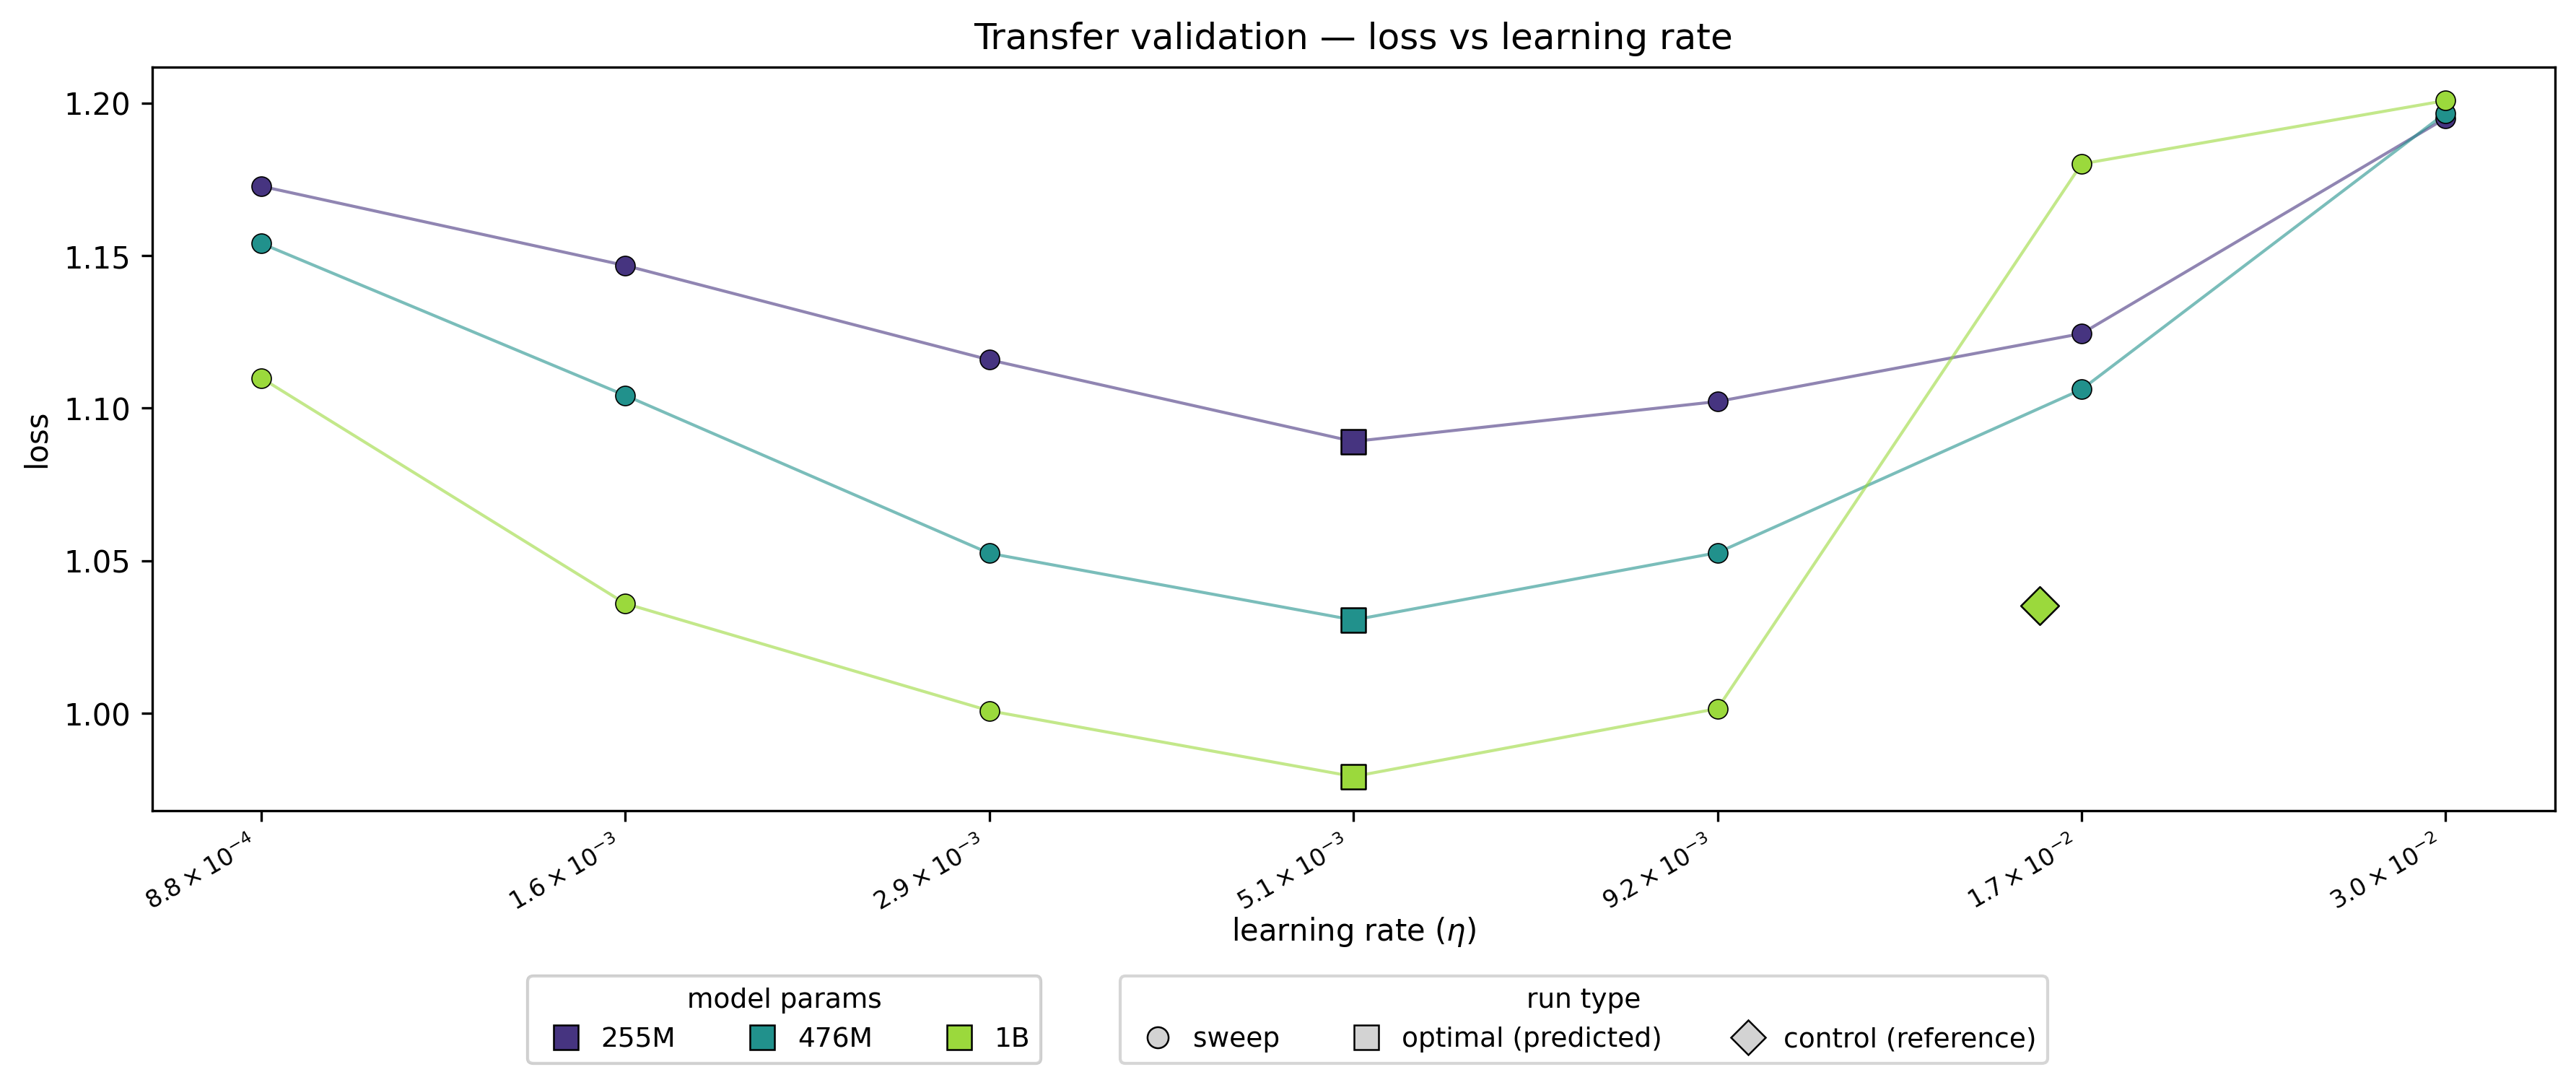
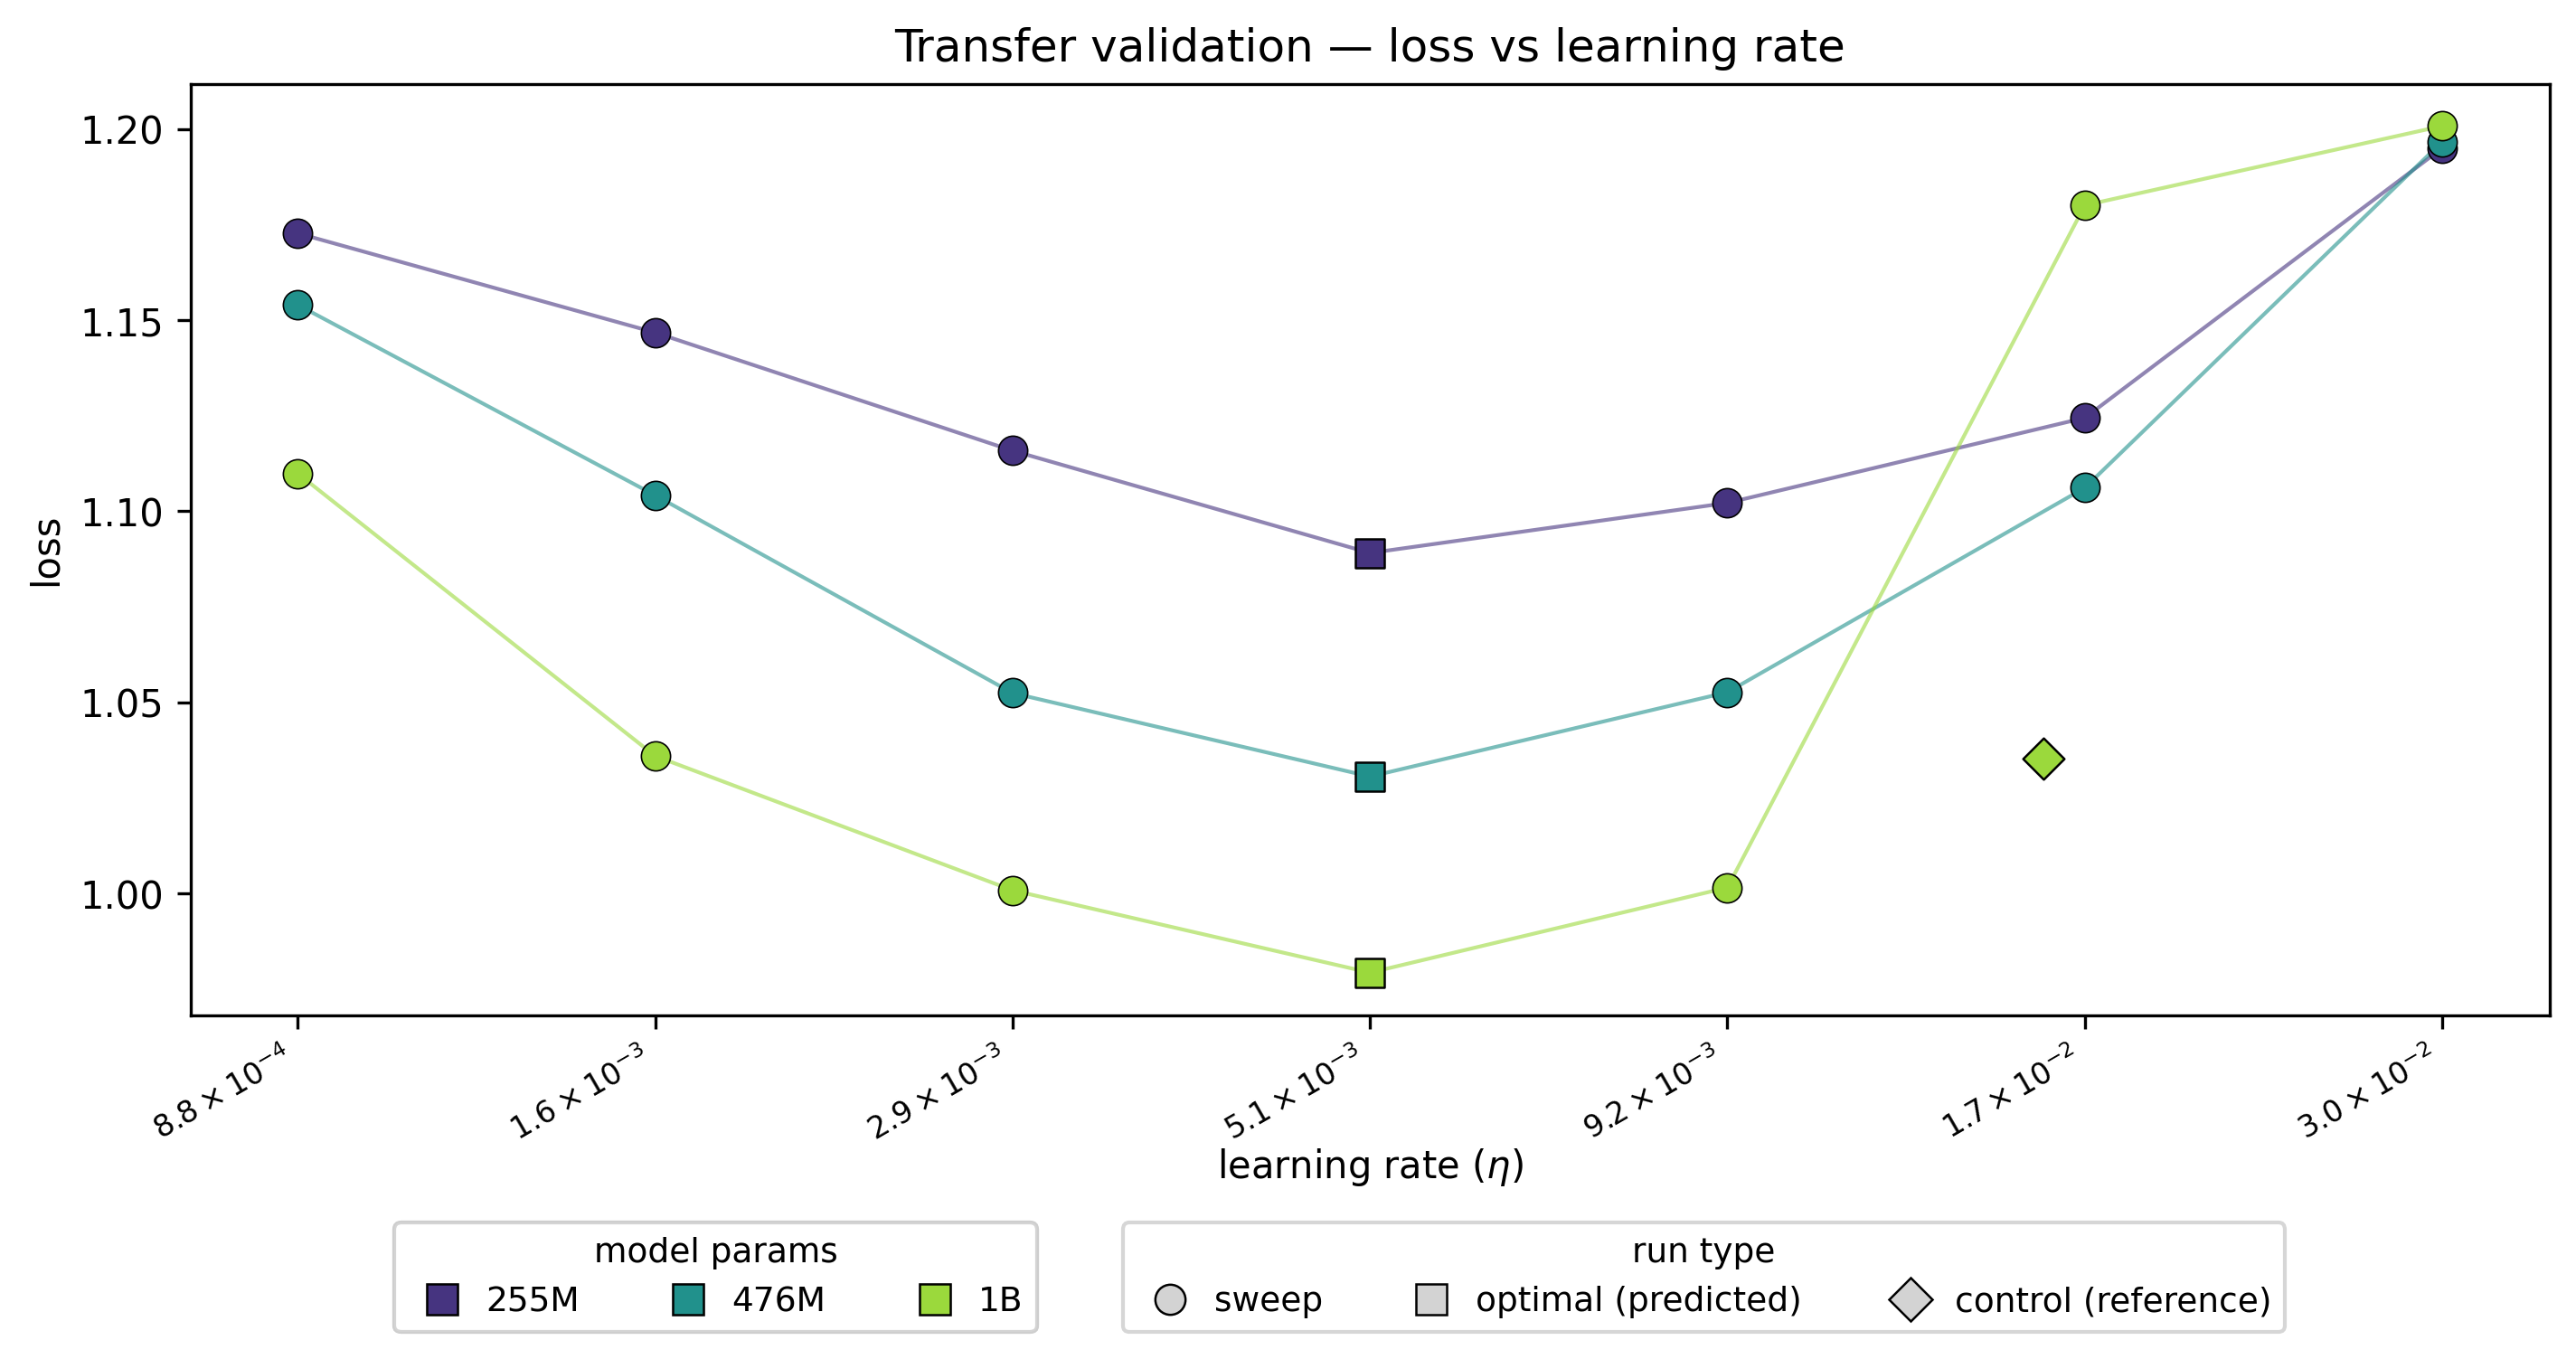
Polish figure layouts and add Kaplan fit report
Unify marker sizes across roles in figures 1/2, narrow figure 1 to
0.8x the multi-panel canvas width, drop y-axis grid lines from figures
1/2/4/5, and write Kaplan fit details (params, std errs, residuals,
bounds) to figures/figure3_loss_scaling.txt instead of stdout. Adds
strict convergence + bound-margin checks to the fit.

diff --git a/src/figures.py b/src/figures.py
@@ -138,13 +138,17 @@ def _plot_axis(
             line_xs = [grid_lookup[v] for v in line_pts[axis_field]]
             ax.plot(line_xs, line_pts["eval_loss"].values, color=color, linewidth=1, alpha=0.6, zorder=2)
 
+        # Marker size shared across roles so circles / squares / diamonds read as
+        # equally weighted; only the shape encodes role.
+        marker_size = 60
+
         # Sweep points: circles, raw individual runs.
         sweep = scale[scale["role"] == axis_role]
         if not sweep.empty:
             sweep_xs = [grid_lookup[v] for v in sweep[axis_field]]
             ax.scatter(
                 sweep_xs, sweep["eval_loss"].values,
-                s=42, color=color, marker="o", edgecolors="k", linewidths=0.4, zorder=3,
+                s=marker_size, color=color, marker="o", edgecolors="k", linewidths=0.4, zorder=3,
             )
 
         # Positive control: square, sits at the grid center value (same for every scale).
@@ -153,7 +157,7 @@ def _plot_axis(
             pos_xs = [grid_lookup[v] for v in pos[axis_field]]
             ax.scatter(
                 pos_xs, pos["eval_loss"].values,
-                s=70, color=color, marker="s", edgecolors="k", linewidths=0.6, zorder=4,
+                s=marker_size, color=color, marker="s", edgecolors="k", linewidths=0.6, zorder=4,
             )
 
         # Negative control (1B only): diamond at the (interpolated) untransferred value.
@@ -163,7 +167,7 @@ def _plot_axis(
                 x = _interpolate_x(float(row[axis_field]), grid_values, grid_xs, log_scale)
                 ax.scatter(
                     [x], [row["eval_loss"]],
-                    s=80, color=color, marker="D", edgecolors="k", linewidths=0.6, zorder=4,
+                    s=marker_size, color=color, marker="D", edgecolors="k", linewidths=0.6, zorder=4,
                 )
 
     ax.set_xticks(grid_xs)
@@ -176,7 +180,7 @@ def _plot_axis(
 def _shape_legend_handles():
     """Proxy artists for the marker-shape legend (no axes side-effects)."""
     common = dict(color="w", markerfacecolor="lightgray", markeredgecolor="k", markeredgewidth=0.6, linestyle="")
-    sweep = Line2D([0], [0], marker="o", markersize=7, **common)
+    sweep = Line2D([0], [0], marker="o", markersize=8, **common)
     optimal = Line2D([0], [0], marker="s", markersize=8, **common)
     reference = Line2D([0], [0], marker="D", markersize=8, **common)
     return [sweep, optimal, reference], ["sweep", "optimal (predicted)", "control (reference)"]
@@ -256,7 +260,8 @@ def _save(fig, name: str) -> None:
 
 
 def figure1_lr(df: pd.DataFrame, palette: dict, params: list[int]) -> None:
-    fig, ax = plt.subplots(figsize=(FIGURE_WIDTH, FIGURE_HEIGHT))
+    # Single-panel figure narrower than the multi-panel default to avoid stretching.
+    fig, ax = plt.subplots(figsize=(FIGURE_WIDTH * 0.8, FIGURE_HEIGHT))
     _plot_axis(
         ax, df,
         axis_role="learning_rate",
@@ -486,7 +491,51 @@ def _fit_kaplan_law(params: np.ndarray, losses: np.ndarray) -> tuple[float, floa
                 f"(lo={lo}, hi={hi}, margin={margin:.3g})"
             )
 
-    return float(popt[0]), float(popt[1]), float(popt[2])
+    A_fit, alpha_fit, L_inf_fit = float(popt[0]), float(popt[1]), float(popt[2])
+    _write_kaplan_fit_report(params, losses, A_fit, alpha_fit, L_inf_fit, pcov, lower, upper, names)
+    return A_fit, alpha_fit, L_inf_fit
+
+
+KAPLAN_FIT_REPORT_PATH = FIGURES_DIR / "figure3_loss_scaling.txt"
+
+
+def _write_kaplan_fit_report(
+    params: np.ndarray,
+    losses: np.ndarray,
+    A: float,
+    alpha: float,
+    L_inf: float,
+    pcov: np.ndarray,
+    lower: np.ndarray,
+    upper: np.ndarray,
+    names: tuple[str, ...],
+) -> None:
+    """Write Kaplan fit parameters, bounds, std-errs, and residual stats to a report file."""
+    pred = A * params ** (-alpha) + L_inf
+    resid = losses - pred
+    rmse = float(np.sqrt(np.mean(resid**2)))
+    max_abs = float(np.max(np.abs(resid)))
+    perr = np.sqrt(np.diag(pcov))
+    values = (A, alpha, L_inf)
+
+    lines = [
+        "Kaplan scaling-law fit",
+        "======================",
+        "",
+        "L(N) = A · N^(-α) + L_∞",
+        "",
+        f"data points : {len(params)}",
+        f"RMSE        : {rmse:.4g}",
+        f"max |resid| : {max_abs:.4g}",
+        "",
+        f"{'param':<6} {'value':>14} {'± std err':>14}    bounds",
+    ]
+    for name, val, err, lo, hi in zip(names, values, perr, lower, upper, strict=True):
+        hi_str = "∞" if not np.isfinite(hi) else f"{hi:.4g}"
+        lines.append(f"{name:<6} {val:>14.6g} {err:>14.3g}    [{lo:.4g}, {hi_str}]")
+
+    KAPLAN_FIT_REPORT_PATH.parent.mkdir(parents=True, exist_ok=True)
+    KAPLAN_FIT_REPORT_PATH.write_text("\n".join(lines) + "\n")
 
 
 def figure3_loss_scaling(history: pd.DataFrame, results: pd.DataFrame, palette: dict) -> None: